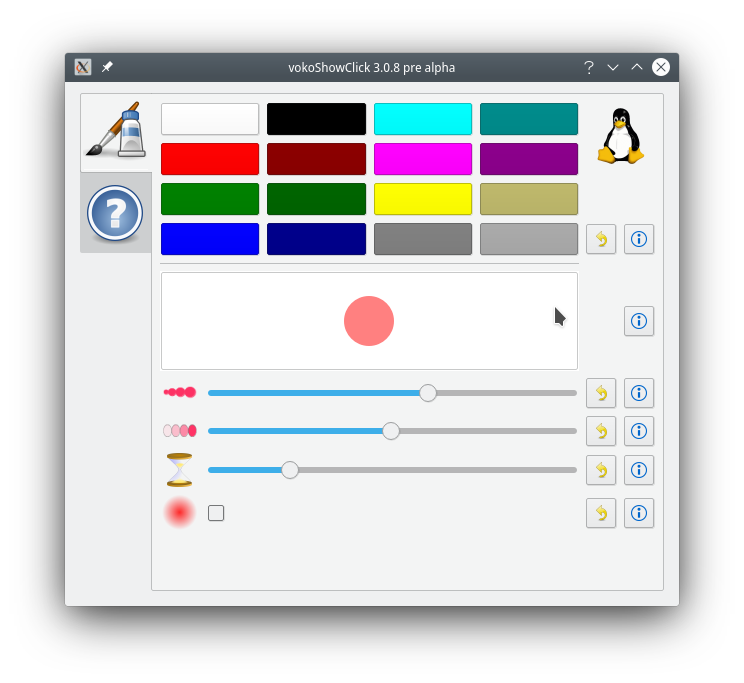
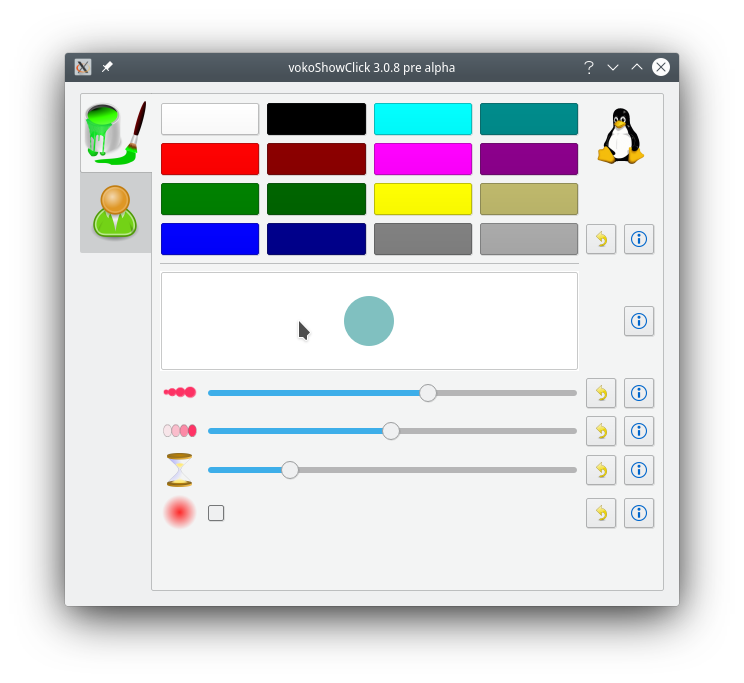
Add pictures

diff --git a/showclick/QvkShowClickDialog.cpp b/showclick/QvkShowClickDialog.cpp
@@ -120,8 +120,11 @@ void QvkShowClickDialog::closeEvent( QCloseEvent *event )
 void QvkShowClickDialog::setIconForSideBar()
 {
     QStringList stringListIcon;
-    stringListIcon.append( ":/pictures/showclick/applications-graphics.png" );
-    stringListIcon.append( ":/pictures/showclick/help-about.png" );
+    stringListIcon.append( ":/pictures/showclick/farbeimer-gruen.png" );
+    stringListIcon.append( ":/pictures/showclick/person-green.png" );
+
+//    QIcon icon = uiDialog.tabWidget->tabIcon( 0 );
+
 
     for( int x = 0; x < stringListIcon.count(); x++ )
     {
